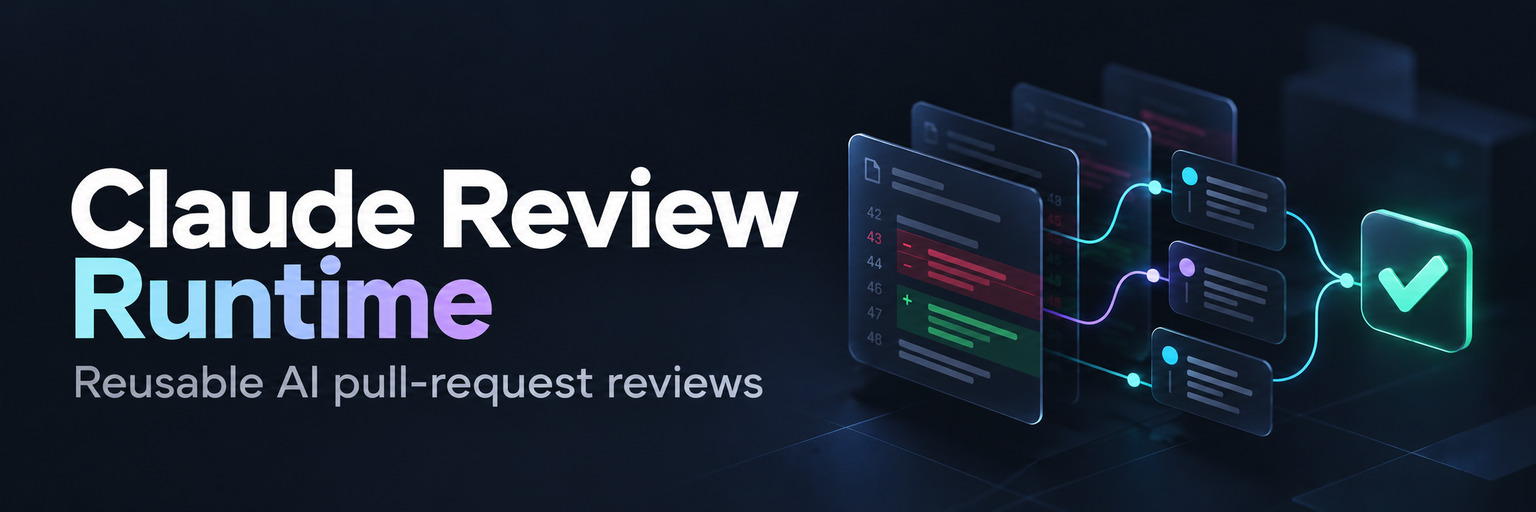
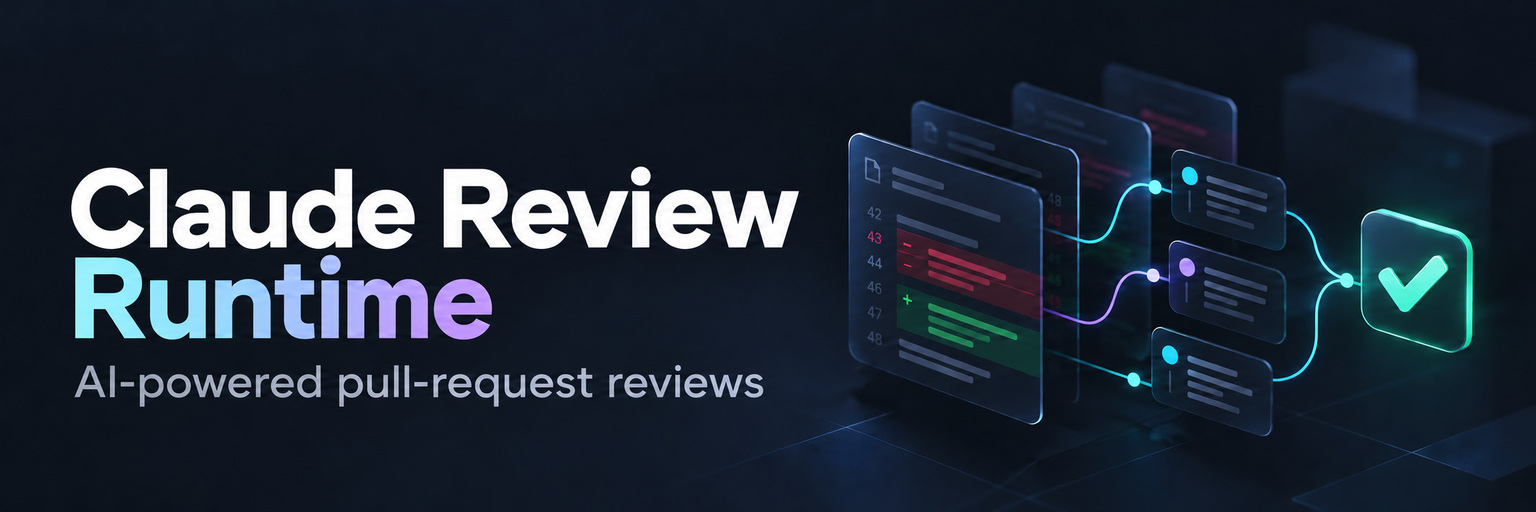
Update review images to approved AI-powered tagline (#27)
Update the social image and README hero to the approved “AI-powered
pull-request reviews” tagline, and match the README image alt text. Both
JPEGs preserve the approved Library version's bytes and existing
dimensions.

Validation: verified current approved file identities and metadata,
inspected both images, checked the Markdown's descriptive alt text and
lack of fixed display width, and passed `git diff --check`. Browser
preview was not rerun. The GitHub social-preview setting requires a
separate upload; this PR updates repository assets.

diff --git a/README.md b/README.md
@@ -1,6 +1,6 @@
 # Claude Review Runtime
 
-![Claude Review Runtime — Reusable AI pull-request reviews](docs/assets/readme-hero.jpg)
+![Claude Review Runtime — AI-powered pull-request reviews](docs/assets/readme-hero.jpg)
 
 Reusable GitHub Actions workflows for Claude pull-request reviews, built on
 [Anthropic’s Claude Code Action](https://github.com/anthropics/claude-code-action).
